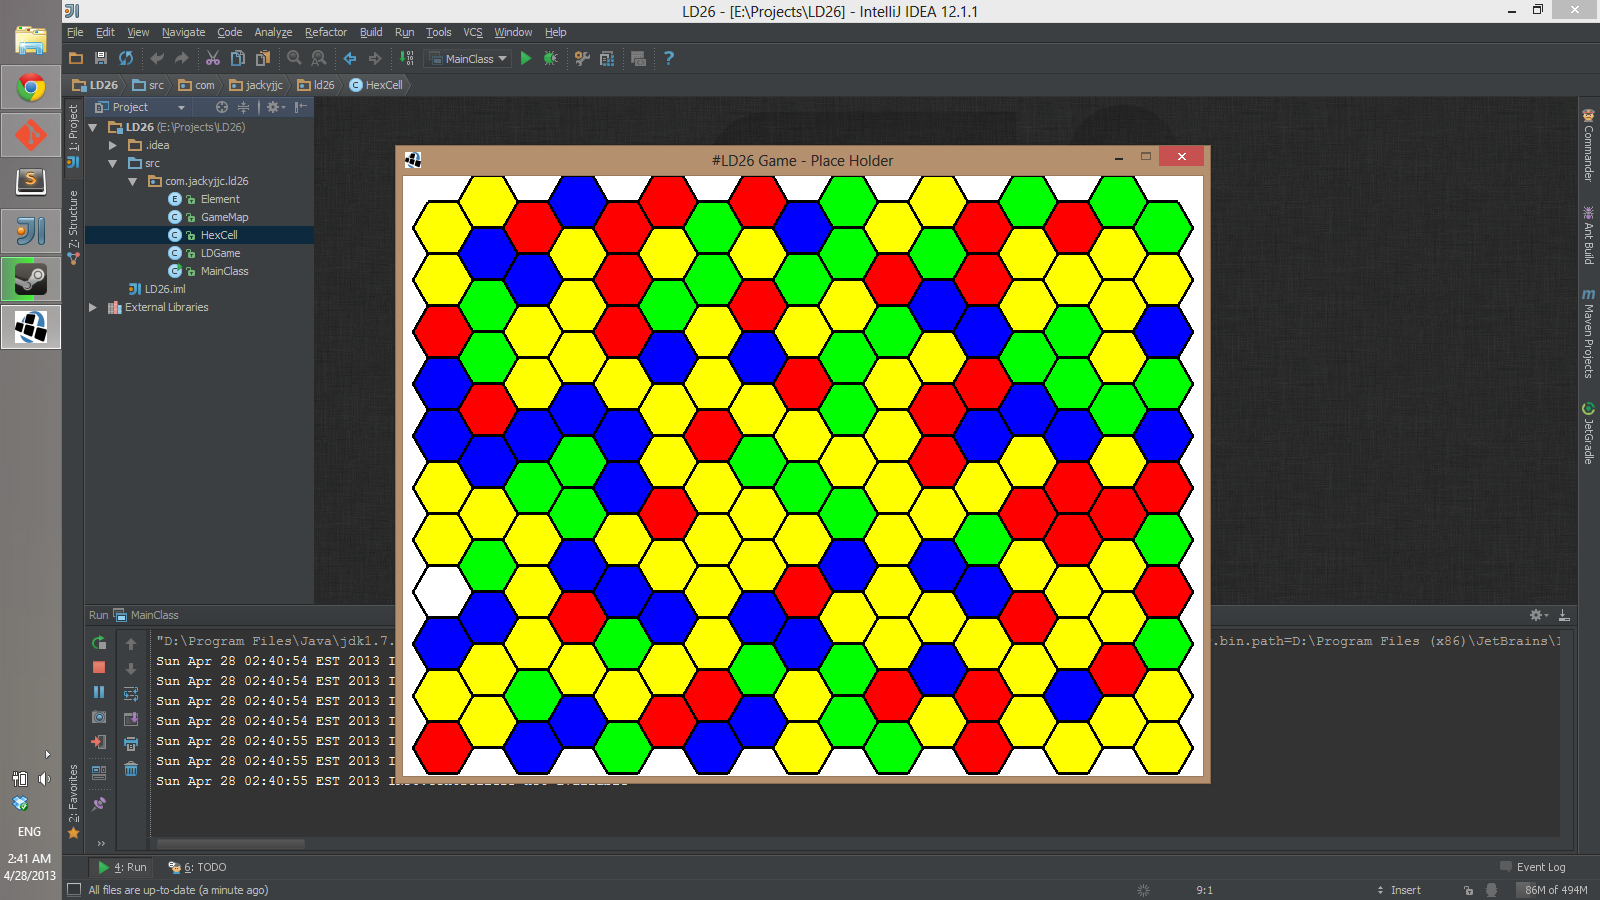
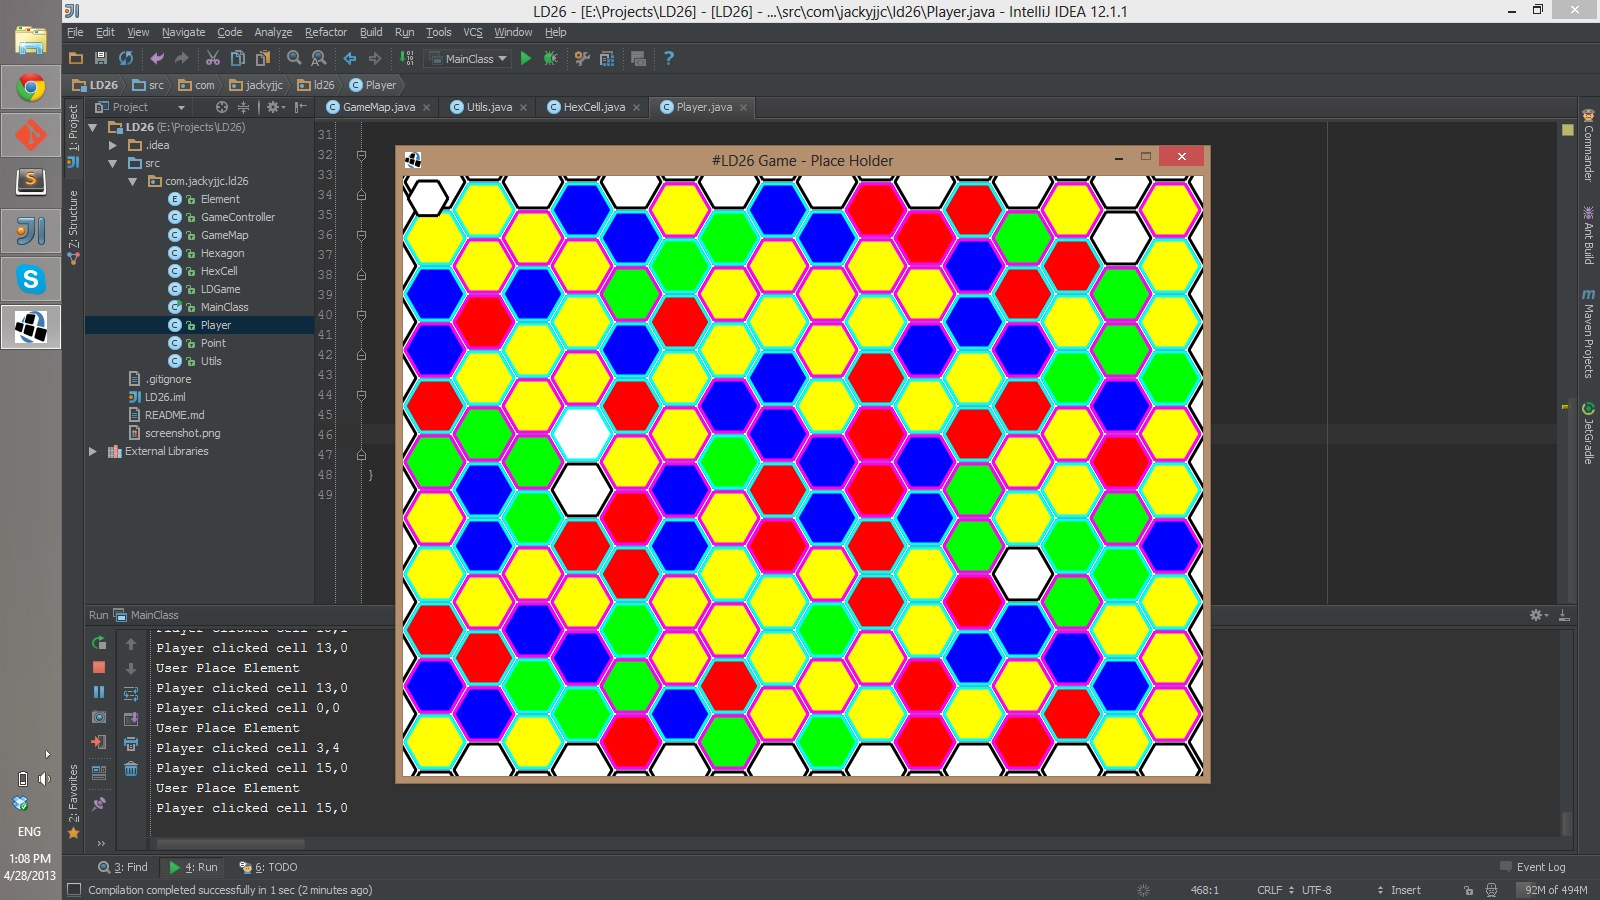
Modified the map a bit

diff --git a/src/com/jackyjjc/ld26/Utils.java b/src/com/jackyjjc/ld26/Utils.java
@@ -5,8 +5,8 @@ package com.jackyjjc.ld26;
  */
 public class Utils {
 
-    private static final int X_OFFSET = 10;
-    private static final int Y_OFFSET = 10;
+    private static final int X_OFFSET = 2;
+    private static final int Y_OFFSET = 8;
 
     public static Point mousePosToMapPos(int mouseX, int mouseY) {
 

diff --git a/src/com/jackyjjc/ld26/Player.java b/src/com/jackyjjc/ld26/Player.java
@@ -43,6 +43,6 @@ public class Player {
 
     public void getNewElement() {
         //TODO: generate element based on some sort of rule
-        currentElement = Element.values()[0];
+        currentElement = Element.values()[((int) (Math.random() * 5))];
     }
 }
